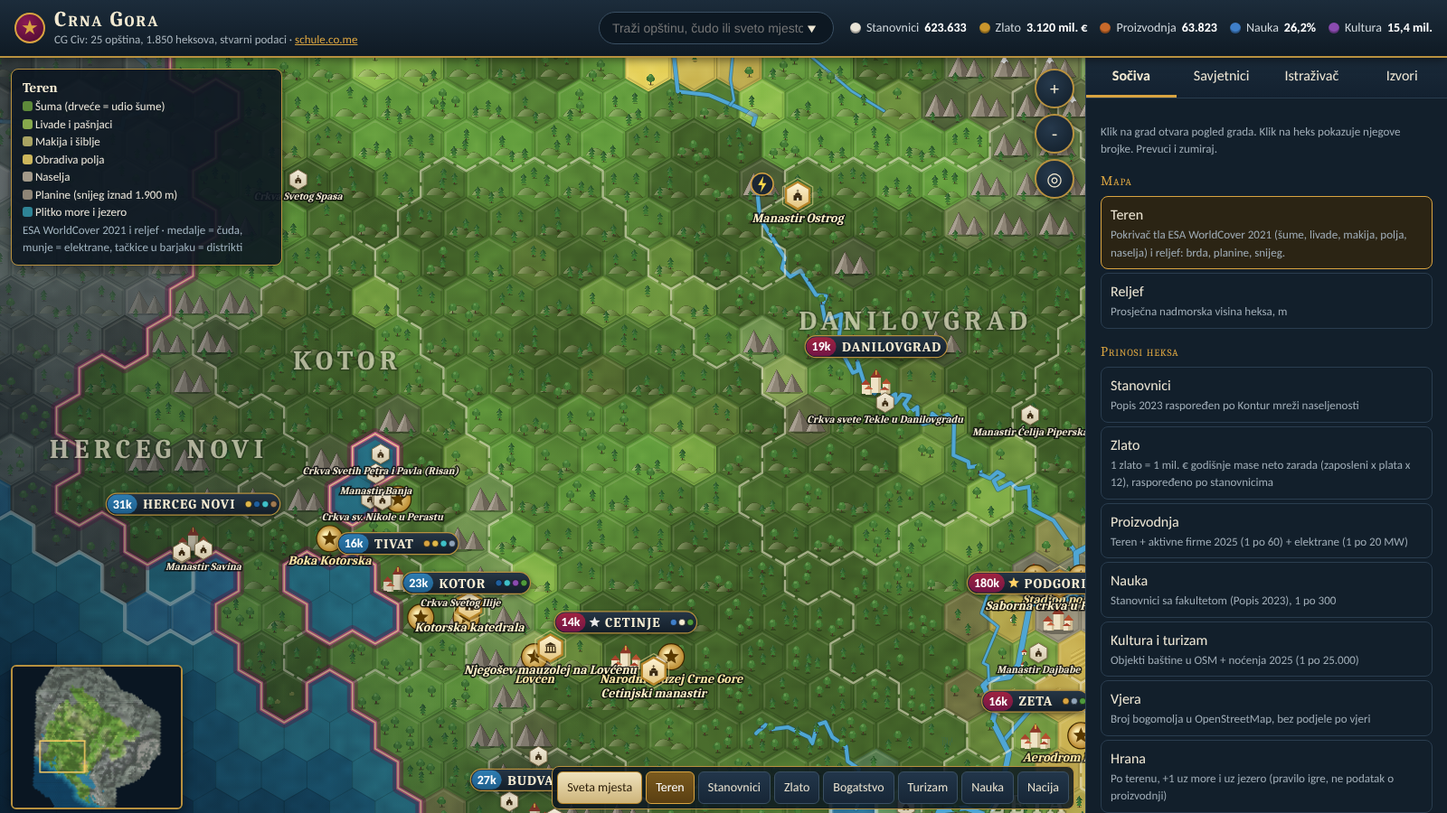
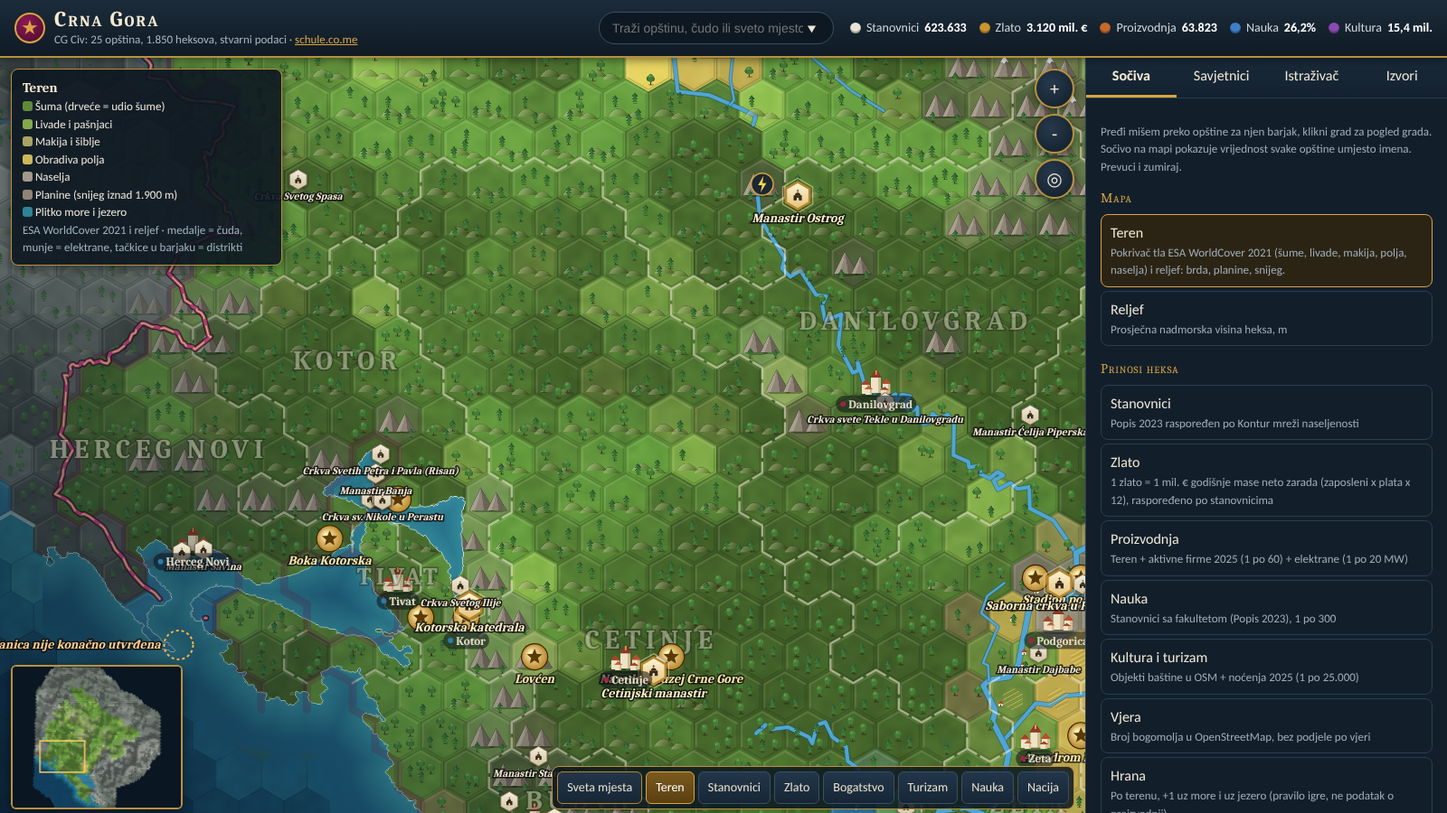
Tiši natpisi: puni barjak na prelaz mišem ili izbor; sočiva pokazuju vrijednost po opštini umjesto imena
Claude-Session: https://claude.ai/code/session_012Pb7xSYRqmrmZrka8gx1Yz

diff --git a/docs/index.html b/docs/index.html
@@ -144,7 +144,7 @@ header{padding:6px 10px;gap:4px 10px}header .sub{font-size:12px}.emb{width:28px;
       <button role="tab" data-t="explorer" aria-selected="false">Istraživač</button>
       <button role="tab" data-t="sources" aria-selected="false">Izvori</button>
     </div>
-    <div class="pane" id="p-lenses"><p class="muted">Klik na grad otvara pogled grada. Klik na heks pokazuje njegove brojke. Prevuci i zumiraj.</p><div id="lensList"></div><div id="hexInfo"></div></div>
+    <div class="pane" id="p-lenses"><p class="muted">Pređi mišem preko opštine za njen barjak, klikni grad za pogled grada. Sočivo na mapi pokazuje vrijednost svake opštine umjesto imena. Prevuci i zumiraj.</p><div id="lensList"></div><div id="hexInfo"></div></div>
     <div class="pane" id="p-advisors" hidden></div>
     <div class="pane" id="p-explorer" hidden>
       <label class="sel" for="ex">Osa X</label><select id="ex"></select>
@@ -166,11 +166,11 @@ const fmt=(v,d=0)=>v==null||isNaN(v)?'-':Number(v).toLocaleString('sr-Latn-ME',{
 const SQ3=Math.sqrt(3);
 const TERR={plains:['#c8bf78','Ravnica'],grassland:['#93b35e','Livade i polja'],hills:['#6e8c4b','Brda'],mountain:['#8b8272','Planine'],peak:['#ece9e2','Vrhovi iznad 2.100 m'],lake:['#3d7ea8','Jezero'],sea:['#1c4f74','More']};
 const YC={food:'#4f9a3c',prod:'#c8692a',gold:'#c9952c',science:'#3f7fc9',culture:'#8a4bb0',faith:'#e0d7c3'};
-let touched=false,D,V,hexes,byKey={},cityByKey={},T={},nat,s=10,tx=0,ty=0,lens='terrain',sel=null,dpr=1;
+let hov=null,touched=false,D,V,hexes,byKey={},cityByKey={},T={},nat,s=10,tx=0,ty=0,lens='terrain',sel=null,dpr=1;
 const cv=$('#map');let cx=cv.getContext('2d');const CX0=cx;
 
-let COAST=null;{const im=new Image();im.onload=()=>{COAST=im;SC=null;draw()};im.src='obala.png?v=5'}
-Promise.all(['cgciv.json','cgviz.json'].map(u=>fetch(u+'?v=5').then(r=>r.json()))).then(([d,v])=>{D=d;V=v;init()}).catch(e=>{console.error(e.stack);$('#legend').textContent='Podaci nijesu učitani: '+e.message});
+let COAST=null;{const im=new Image();im.onload=()=>{COAST=im;SC=null;draw()};im.src='obala.png?v=6'}
+Promise.all(['cgciv.json','cgviz.json'].map(u=>fetch(u+'?v=6').then(r=>r.json()))).then(([d,v])=>{D=d;V=v;init()}).catch(e=>{console.error(e.stack);$('#legend').textContent='Podaci nijesu učitani: '+e.message});
 
 function init(){
   hexes=D.hexes;nat=D.meta.nat;
@@ -445,15 +445,15 @@ function overlay(W,H){
     cx.fillStyle=c.n==='JADRANSKO MORE'?'rgba(170,215,235,.55)':kim?'rgba(225,228,232,.55)':'rgba(225,228,232,.5)';cx.fillText(c.n,x,y);if(kim)cx.restore()}try{cx.letterSpacing='0px'}catch(e){}cx.textBaseline='alphabetic'}
   {const P=V.prevlaka,x=P.p[0]*s+tx,y=P.p[1]*s+ty,z=Math.max(6,Math.min(16,s*.55));P._xy=[x,y,z+4];
     cx.setLineDash([3,3]);cx.strokeStyle='#ffb347';cx.lineWidth=2;cx.beginPath();cx.arc(x,y,z,0,7);cx.stroke();cx.setLineDash([]);
-    if(s>5){cx.font=`italic 700 ${Math.max(11,Math.min(14,s*.5))}px Caladea,serif`;cx.textAlign='right';cx.lineWidth=3;cx.strokeStyle='rgba(10,10,10,.85)';
+    if(s>11){cx.font=`italic 700 ${Math.max(11,Math.min(14,s*.5))}px Caladea,serif`;cx.textAlign='right';cx.lineWidth=3;cx.strokeStyle='rgba(10,10,10,.85)';
       const t='Prevlaka · granica nije konačno utvrđena';cx.strokeText(t,x-z-4,y+4);cx.fillStyle='#ffcf8a';cx.fillText(t,x-z-4,y+4)}}
   // 8. imena opština (srednji zum, ne preko barjaka)
   const BB=bannerLayout(W,H);
-  if(s>8.5&&s<30){cx.textAlign='center';cx.textBaseline='middle';
+  if(terr&&s>11&&s<30){cx.textAlign='center';cx.textBaseline='middle';
     for(const L of V.labels){const x=L.p[0]*s+tx,y=L.p[1]*s+ty;if(x<0||y<0||x>W||y>H)continue;
       const fs=Math.max(12,Math.min(30,s*(.7+Math.sqrt(L.a)/30)));cx.font=`700 ${fs}px Caladea,Georgia,serif`;try{cx.letterSpacing=(fs*.18)+'px'}catch(e){}
       const lw=cx.measureText(L.n.toUpperCase()).width;if(BB.some(b=>x-lw/2<b.bx+b.bw&&x+lw/2>b.bx&&y-fs/2<b.by+b.bh&&y+fs/2>b.by))continue;
-      cx.lineWidth=3;cx.strokeStyle='rgba(20,25,20,.35)';cx.strokeText(L.n.toUpperCase(),x,y);cx.fillStyle=terr?'rgba(255,248,225,.62)':'rgba(255,255,255,.7)';cx.fillText(L.n.toUpperCase(),x,y)}
+      cx.lineWidth=3;cx.strokeStyle='rgba(20,25,20,.35)';cx.strokeText(L.n.toUpperCase(),x,y);cx.fillStyle='rgba(255,248,225,.42)';cx.fillText(L.n.toUpperCase(),x,y)}
     try{cx.letterSpacing='0px'}catch(e){}cx.textBaseline='alphabetic'}
   // 9. elektrane
   for(const p of D.power){const x=SQ3*(p.q+p.r/2)*s+tx,y=-1.5*p.r*s+ty,z=Math.max(6,s*.42);if(x<-z||y<-z||x>W+z||y>H+z)continue;
@@ -462,13 +462,27 @@ function overlay(W,H){
   // 10. čuda
   for(const h of V.holy)h._xy=null;
   const placed=[],HS=new Set(V.holy.filter(h=>h.star).map(h=>h.n));const HL2=drawHoly(W,H,placed);for(const w of D.wonders){if(showHoly&&HS.has(w.name))continue;const x=SQ3*(w.q+w.r/2)*s+tx,y=-1.5*w.r*s+ty,z=Math.max(6,s*.5);if(x<-40||y<-40||x>W+40||y>H+40)continue;medal(x,y,z);
-    if(s<8.5)continue;const fs=Math.max(11,Math.min(14,s*.55));cx.font=`italic 700 ${fs}px Caladea,serif`;const lw=cx.measureText(w.name).width;
+    if(s<20)continue;const fs=Math.max(11,Math.min(14,s*.5));cx.font=`italic 700 ${fs}px Caladea,serif`;const lw=cx.measureText(w.name).width;
     if(placed.some(p=>Math.abs(p[0]-x)<(p[2]+lw)/2+6&&Math.abs(p[1]-y)<fs+4))continue;placed.push([x,y,lw]);
     cx.textAlign='center';cx.fillStyle='#ffe9a8';cx.strokeStyle='rgba(10,10,10,.8)';cx.lineWidth=3;cx.strokeText(w.name,x,y+z+fs);cx.fillText(w.name,x,y+z+fs)}
   HL2.forEach(f=>f());
-  // 11. gradski barjaci
-  for(const{c,x,y,fs,bh,popT,wp,nm,wn,ds,star,bw,bx,by}of BB){
-    const [c1,c2]=regCol(c.name);
+  // 10c. vrijednosti sočiva po opštini (podatak umjesto imena)
+  if(!terr){const vals=muniVals();cx.textAlign='center';cx.textBaseline='middle';
+    for(const L of V.labels){const v=vals[L.n];if(v==null)continue;const x=L.p[0]*s+tx,y=L.p[1]*s+ty;if(x<-60||y<-20||x>W+60||y>H+20)continue;
+      const fs=Math.max(11,Math.min(16,s*.55+4));cx.font=`700 ${fs}px Carlito,sans-serif`;const t=v.t,w=cx.measureText(t).width+14,hh=fs+8;
+      cx.fillStyle=L.n===hov||L.n===sel?'rgba(40,30,10,.92)':'rgba(10,18,26,.78)';rr(x-w/2,y-hh/2,w,hh,hh/2);cx.fill();
+      cx.strokeStyle=L.n===hov||L.n===sel?'#ffd166':'rgba(255,255,255,.35)';cx.lineWidth=1;rr(x-w/2,y-hh/2,w,hh,hh/2);cx.stroke();
+      cx.fillStyle='#fff';cx.fillText(t,x,y+1)}cx.textBaseline='alphabetic'}
+  // 10d. obris opštine pod mišem
+  if(hov&&hov!==sel){const hp=new Path2D();for(const h of hexes){if(h.muni!==hov)continue;const x=h.px*s+tx,y=h.py*s+ty;
+    for(const[a,b]of NB){const n=byKey[(h.q+a)+','+(h.r+b)];if(n&&n.muni===hov)continue;const e=edgePts(x,y,a,b,s);hp.moveTo(e[0],e[1]);hp.lineTo(e[2],e[3])}}
+    cx.strokeStyle='rgba(255,220,140,.75)';cx.lineWidth=Math.max(1.5,s*.12);cx.stroke(hp)}
+  // 11. gradski barjaci: tihi natpis, pun barjak na prelaz mišem ili izbor
+  for(const B of BB){const{c,x,y,fs,bh,bw,bx,by,nm}=B;const [c1,c2]=regCol(c.name);
+    if(!B.F){if(!terr)continue;cx.globalAlpha=.92;cx.fillStyle='rgba(10,18,26,.6)';rr(bx,by,bw,bh,bh/2);cx.fill();
+      cx.fillStyle=c1;cx.beginPath();cx.arc(bx+8,by+bh/2,3,0,7);cx.fill();
+      cx.font=`600 ${fs}px Caladea,serif`;cx.textBaseline='middle';cx.textAlign='left';cx.fillStyle='#efe6cf';cx.fillText(nm,bx+14,by+bh/2+1);cx.textBaseline='alphabetic';cx.globalAlpha=1;continue}
+    const{popT,wp,wn,ds,star}=B;
     cx.save();cx.shadowColor='rgba(0,0,0,.55)';cx.shadowBlur=6;cx.shadowOffsetY=2;
     const gb=cx.createLinearGradient(0,by,0,by+bh);gb.addColorStop(0,'#263646');gb.addColorStop(1,'#121d28');cx.fillStyle=gb;rr(bx,by,bw,bh,bh/2);cx.fill();cx.restore();
     cx.strokeStyle=c.name===sel?'#ffd166':'#b8913f';cx.lineWidth=c.name===sel?2:1.2;rr(bx,by,bw,bh,bh/2);cx.stroke();
@@ -490,16 +504,19 @@ function overlay(W,H){
   legend();mini();
 }
 function bannerLayout(W,H){
-  const out=[],R=s;const pri=c=>c.name==='Podgorica'?1e9:c.name==='Cetinje'?9e8:c.pop;
+  const out=[],R=s;const full=c=>c.name===sel||c.name===hov;const pri=c=>full(c)?2e9:c.name==='Podgorica'?1e9:c.name==='Cetinje'?9e8:c.pop;
   const cities=[...D.cities].sort((a,b)=>pri(b)-pri(a));
   for(const c of cities){const x=SQ3*(c.q+c.r/2)*s+tx,y=-1.5*c.r*s+ty;if(x<-200||y<-60||x>W+200||y>H+60)continue;
-    const fs=Math.max(10.5,Math.min(15,s*.62+5)),bh=fs+9,popT=c.pop>=1e5?fmt(c.pop/1000)+'k':fmt(c.pop/1000,c.pop<1e4?1:0)+'k';
-    cx.font=`700 ${fs-1}px Carlito,sans-serif`;const wp=cx.measureText(popT).width+12;
-    cx.font=`700 ${fs}px Caladea,serif`;try{cx.letterSpacing='1px'}catch(e){}const nm=c.name.toUpperCase(),wn=cx.measureText(nm).width+14;try{cx.letterSpacing='0px'}catch(e){}
-    const ds=c.districts.slice(0,4),wd=ds.length?ds.length*(fs*.62)+6:0,star=c.name==='Podgorica'||c.name==='Cetinje'?fs:0,bw=wp+wn+wd+star;
-    const cand=[[-bw/2,-R*.9-bh],[-bw/2,R*.85],[-bw+R,-R*.9-bh],[-R,R*.85],[-R,-R*.9-bh],[-bw+R,R*.85],[-bw/2,-R*.9-2*bh-2],[-bw/2,R*.85+bh+2]];
+    const F=full(c);let o;
+    if(F){const fs=Math.max(11.5,Math.min(15,s*.62+5)),bh=fs+9,popT=c.pop>=1e5?fmt(c.pop/1000)+'k':fmt(c.pop/1000,c.pop<1e4?1:0)+'k';
+      cx.font=`700 ${fs-1}px Carlito,sans-serif`;const wp=cx.measureText(popT).width+12;
+      cx.font=`700 ${fs}px Caladea,serif`;try{cx.letterSpacing='1px'}catch(e){}const nm=c.name.toUpperCase(),wn=cx.measureText(nm).width+14;try{cx.letterSpacing='0px'}catch(e){}
+      const ds=c.districts.slice(0,4),wd=ds.length?ds.length*(fs*.62)+6:0,star=c.name==='Podgorica'||c.name==='Cetinje'?fs:0;o={F,fs,bh,popT,wp,nm,wn,ds,star,bw:wp+wn+wd+star}}
+    else{const fs=Math.max(10,Math.min(13,s*.4+6)),bh=fs+6;cx.font=`600 ${fs}px Caladea,serif`;const nm=c.name,wn=cx.measureText(nm).width;o={F,fs,bh,nm,wn,bw:wn+18}}
+    const bw=o.bw,bh=o.bh;
+    const cand=F?[[-bw/2,-R*.9-bh],[-bw/2,R*.85],[-bw+R,-R*.9-bh],[-R,R*.85]]:[[-bw/2,R*.55],[-bw/2,-R*.6-bh],[-bw+R*.5,R*.55],[-R*.5,R*.55],[-bw/2,R*.55+bh+2]];
     let ok=null;for(const[dx,dy]of cand){const bx=x+dx,by=y+dy;if(!out.some(b=>bx<b.bx+b.bw+3&&bx+bw>b.bx-3&&by<b.by+b.bh+2&&by+bh>b.by-2)){ok=[bx,by];break}}
-    if(!ok)continue;out.push({c,x,y,fs,bh,popT,wp,nm,wn,ds,star,bw,bx:ok[0],by:ok[1]})}
+    if(!ok)continue;out.push(Object.assign(o,{c,x,y,bx:ok[0],by:ok[1]}))}
   return out;
 }
 function rr(x,y,w,h,r){r=Math.min(r,h/2,w/2);cx.beginPath();cx.moveTo(x+r,y);cx.arcTo(x+w,y,x+w,y+h,r);cx.arcTo(x+w,y+h,x,y+h,r);cx.arcTo(x,y+h,x,y,r);cx.arcTo(x,y,x+w,y,r);cx.closePath()}
@@ -529,7 +546,7 @@ function drawHoly(W,H,placed){
   const later=[];if(!showHoly)return later;const list=V.holy.filter(holyVisible);
   for(const h of [...list].reverse()){const x=h.p[0]*s+tx,y=h.p[1]*s+ty,z=h.star?Math.max(8,Math.min(15,s*.62)):Math.max(5.5,Math.min(11,s*.42));if(x<-30||y<-30||x>W+30||y>H+30)continue;
     h._xy=[x,y,z];later.push(()=>holyBadge(x,y,z,h.k,h.star))}
-  for(const h of list){if(!h._xy)continue;const[x,y,z]=h._xy;if(!(h.star&&s>5.5)&&!(s>24))continue;
+  for(const h of list){if(!h._xy)continue;const[x,y,z]=h._xy;if(!(h.star&&s>14)&&!(s>26))continue;
     const fs=h.star?Math.max(11,Math.min(14,s*.55)):Math.max(10,Math.min(12,s*.4)),t=h.n;cx.font=`italic 700 ${fs}px Caladea,serif`;const lw=cx.measureText(t).width;
     if(placed.some(p=>Math.abs(p[0]-x)<(p[2]+lw)/2+6&&Math.abs(p[1]-(y+z+fs))<fs+3))continue;placed.push([x,y+z+fs,lw]);
     later.push(()=>{cx.font=`italic 700 ${fs}px Caladea,serif`;cx.textAlign='center';cx.strokeStyle='rgba(10,10,10,.85)';cx.lineWidth=3;cx.strokeText(t,x,y+z+fs);cx.fillStyle=h.star?'#fff1c8':'#efe6d0';cx.fillText(t,x,y+z+fs)})}
@@ -549,6 +566,13 @@ function buildSearch(){
 ['#myth .mlab','#myth .core'].forEach(q=>document.querySelector(q).addEventListener('click',e=>{const h=V.holy.find(x=>x.id==='Q13424615'),t=$('#tip'),r=cv.getBoundingClientRect(),b=e.target.getBoundingClientRect();
   t.innerHTML=`<b>Lovćen: Njegoševa kapela i mauzolej</b><br>${esc(h.note)}<br><span style="color:#9fb1bd">Sveto i memorijalno mjesto, ${h.sl} jezika na Wikipediji</span>`;t.style.display='block';
   t.style.left=Math.min(b.left-r.left,r.width-270)+'px';t.style.top=(b.bottom-r.top+8)+'px'}));
+let MVC={};
+function muniVals(){if(MVC.k===lens)return MVC.v;const v={};
+  if(CATS[lens]){for(const r of D.table)v[r['Opština']]={t:r[lens.slice(4)]||'-'}}
+  else if(lens.startsWith('m:')){const c=lens.slice(2),u=c.includes('€')?' €':c.includes('%')?'%':c.includes('‰')?'‰':'';const f1=x=>Math.abs(x)<10?(Math.abs(x)<.05?0:x).toLocaleString('sr-Latn-ME',{minimumFractionDigits:1,maximumFractionDigits:1}):fmt(x);for(const r of D.table)if(r[c]!=null)v[r['Opština']]={t:f1(r[c])+u}}
+  else{const o=HL[lens];if(o&&o.v){const agg={},cnt={};for(const h of hexes){if(!h.muni)continue;const x=o.v(h);if(x==null)continue;agg[h.muni]=(agg[h.muni]||0)+x;cnt[h.muni]=(cnt[h.muni]||0)+1}
+    for(const m in agg){const val=lens==='elev'?agg[m]/cnt[m]:agg[m];v[m]={t:lens==='elev'?fmt(val)+' m':lens==='gold'?fmt(val,0)+' mil. €':val>=1e6?fmt(val/1e6,1)+' mil.':val>=1e4?fmt(val/1e3,0)+'k':fmt(val)}}}}
+  MVC={k:lens,v};return v}
 /* pregledna mapa */
 let miniImg=null,miniT=null;
 function mini(){
@@ -574,10 +598,11 @@ cv.addEventListener('pointermove',e=>{
   if(ptrs.has(e.pointerId))ptrs.set(e.pointerId,[e.offsetX,e.offsetY]);
   if(pinch&&ptrs.size===2){const [a,b]=[...ptrs.values()],d=Math.hypot(a[0]-b[0],a[1]-b[1]);zoomAt((a[0]+b[0])/2,(a[1]+b[1])/2,pinch.s*d/pinch.d/s);moved=9;return}
   if(drag&&ptrs.size===1){touched=true;tx=drag[2]+e.offsetX-drag[0];ty=drag[3]+e.offsetY-drag[1];moved+=Math.abs(e.movementX)+Math.abs(e.movementY);draw();$('#tip').style.display='none';return}
+  {const hh=pick(e.offsetX,e.offsetY),m=hh&&hh.muni||null;if(m!==hov){hov=m;draw()}}
   tip(e.offsetX,e.offsetY)});
 cv.addEventListener('pointerup',e=>{ptrs.delete(e.pointerId);if(ptrs.size<2)pinch=null;cv.style.cursor='grab';
   if(drag&&moved<6){const h=pick(e.offsetX,e.offsetY);if(h){const c=cityByKey[h.q+','+h.r];if(c)openCity(c.name);else hexInfo(h)}}drag=null});
-cv.addEventListener('pointerleave',()=>$('#tip').style.display='none');
+cv.addEventListener('pointerleave',()=>{$('#tip').style.display='none';if(hov){hov=null;draw()}});
 cv.addEventListener('wheel',e=>{e.preventDefault();zoomAt(e.offsetX,e.offsetY,Math.exp(-e.deltaY*.0015))},{passive:false});
 function zoomAt(x,y,f){touched=true;const ns=Math.max(3,Math.min(80,s*f));f=ns/s;tx=x-(x-tx)*f;ty=y-(y-ty)*f;s=ns;draw()}
 $('#zin').onclick=()=>{const r=cv.getBoundingClientRect();zoomAt(r.width/2,r.height/2,1.4)};

diff --git a/site/index.html b/site/index.html
@@ -144,7 +144,7 @@ header{padding:6px 10px;gap:4px 10px}header .sub{font-size:12px}.emb{width:28px;
       <button role="tab" data-t="explorer" aria-selected="false">Istraživač</button>
       <button role="tab" data-t="sources" aria-selected="false">Izvori</button>
     </div>
-    <div class="pane" id="p-lenses"><p class="muted">Klik na grad otvara pogled grada. Klik na heks pokazuje njegove brojke. Prevuci i zumiraj.</p><div id="lensList"></div><div id="hexInfo"></div></div>
+    <div class="pane" id="p-lenses"><p class="muted">Pređi mišem preko opštine za njen barjak, klikni grad za pogled grada. Sočivo na mapi pokazuje vrijednost svake opštine umjesto imena. Prevuci i zumiraj.</p><div id="lensList"></div><div id="hexInfo"></div></div>
     <div class="pane" id="p-advisors" hidden></div>
     <div class="pane" id="p-explorer" hidden>
       <label class="sel" for="ex">Osa X</label><select id="ex"></select>
@@ -166,11 +166,11 @@ const fmt=(v,d=0)=>v==null||isNaN(v)?'-':Number(v).toLocaleString('sr-Latn-ME',{
 const SQ3=Math.sqrt(3);
 const TERR={plains:['#c8bf78','Ravnica'],grassland:['#93b35e','Livade i polja'],hills:['#6e8c4b','Brda'],mountain:['#8b8272','Planine'],peak:['#ece9e2','Vrhovi iznad 2.100 m'],lake:['#3d7ea8','Jezero'],sea:['#1c4f74','More']};
 const YC={food:'#4f9a3c',prod:'#c8692a',gold:'#c9952c',science:'#3f7fc9',culture:'#8a4bb0',faith:'#e0d7c3'};
-let touched=false,D,V,hexes,byKey={},cityByKey={},T={},nat,s=10,tx=0,ty=0,lens='terrain',sel=null,dpr=1;
+let hov=null,touched=false,D,V,hexes,byKey={},cityByKey={},T={},nat,s=10,tx=0,ty=0,lens='terrain',sel=null,dpr=1;
 const cv=$('#map');let cx=cv.getContext('2d');const CX0=cx;
 
-let COAST=null;{const im=new Image();im.onload=()=>{COAST=im;SC=null;draw()};im.src='obala.png?v=5'}
-Promise.all(['cgciv.json','cgviz.json'].map(u=>fetch(u+'?v=5').then(r=>r.json()))).then(([d,v])=>{D=d;V=v;init()}).catch(e=>{console.error(e.stack);$('#legend').textContent='Podaci nijesu učitani: '+e.message});
+let COAST=null;{const im=new Image();im.onload=()=>{COAST=im;SC=null;draw()};im.src='obala.png?v=6'}
+Promise.all(['cgciv.json','cgviz.json'].map(u=>fetch(u+'?v=6').then(r=>r.json()))).then(([d,v])=>{D=d;V=v;init()}).catch(e=>{console.error(e.stack);$('#legend').textContent='Podaci nijesu učitani: '+e.message});
 
 function init(){
   hexes=D.hexes;nat=D.meta.nat;
@@ -445,15 +445,15 @@ function overlay(W,H){
     cx.fillStyle=c.n==='JADRANSKO MORE'?'rgba(170,215,235,.55)':kim?'rgba(225,228,232,.55)':'rgba(225,228,232,.5)';cx.fillText(c.n,x,y);if(kim)cx.restore()}try{cx.letterSpacing='0px'}catch(e){}cx.textBaseline='alphabetic'}
   {const P=V.prevlaka,x=P.p[0]*s+tx,y=P.p[1]*s+ty,z=Math.max(6,Math.min(16,s*.55));P._xy=[x,y,z+4];
     cx.setLineDash([3,3]);cx.strokeStyle='#ffb347';cx.lineWidth=2;cx.beginPath();cx.arc(x,y,z,0,7);cx.stroke();cx.setLineDash([]);
-    if(s>5){cx.font=`italic 700 ${Math.max(11,Math.min(14,s*.5))}px Caladea,serif`;cx.textAlign='right';cx.lineWidth=3;cx.strokeStyle='rgba(10,10,10,.85)';
+    if(s>11){cx.font=`italic 700 ${Math.max(11,Math.min(14,s*.5))}px Caladea,serif`;cx.textAlign='right';cx.lineWidth=3;cx.strokeStyle='rgba(10,10,10,.85)';
       const t='Prevlaka · granica nije konačno utvrđena';cx.strokeText(t,x-z-4,y+4);cx.fillStyle='#ffcf8a';cx.fillText(t,x-z-4,y+4)}}
   // 8. imena opština (srednji zum, ne preko barjaka)
   const BB=bannerLayout(W,H);
-  if(s>8.5&&s<30){cx.textAlign='center';cx.textBaseline='middle';
+  if(terr&&s>11&&s<30){cx.textAlign='center';cx.textBaseline='middle';
     for(const L of V.labels){const x=L.p[0]*s+tx,y=L.p[1]*s+ty;if(x<0||y<0||x>W||y>H)continue;
       const fs=Math.max(12,Math.min(30,s*(.7+Math.sqrt(L.a)/30)));cx.font=`700 ${fs}px Caladea,Georgia,serif`;try{cx.letterSpacing=(fs*.18)+'px'}catch(e){}
       const lw=cx.measureText(L.n.toUpperCase()).width;if(BB.some(b=>x-lw/2<b.bx+b.bw&&x+lw/2>b.bx&&y-fs/2<b.by+b.bh&&y+fs/2>b.by))continue;
-      cx.lineWidth=3;cx.strokeStyle='rgba(20,25,20,.35)';cx.strokeText(L.n.toUpperCase(),x,y);cx.fillStyle=terr?'rgba(255,248,225,.62)':'rgba(255,255,255,.7)';cx.fillText(L.n.toUpperCase(),x,y)}
+      cx.lineWidth=3;cx.strokeStyle='rgba(20,25,20,.35)';cx.strokeText(L.n.toUpperCase(),x,y);cx.fillStyle='rgba(255,248,225,.42)';cx.fillText(L.n.toUpperCase(),x,y)}
     try{cx.letterSpacing='0px'}catch(e){}cx.textBaseline='alphabetic'}
   // 9. elektrane
   for(const p of D.power){const x=SQ3*(p.q+p.r/2)*s+tx,y=-1.5*p.r*s+ty,z=Math.max(6,s*.42);if(x<-z||y<-z||x>W+z||y>H+z)continue;
@@ -462,13 +462,27 @@ function overlay(W,H){
   // 10. čuda
   for(const h of V.holy)h._xy=null;
   const placed=[],HS=new Set(V.holy.filter(h=>h.star).map(h=>h.n));const HL2=drawHoly(W,H,placed);for(const w of D.wonders){if(showHoly&&HS.has(w.name))continue;const x=SQ3*(w.q+w.r/2)*s+tx,y=-1.5*w.r*s+ty,z=Math.max(6,s*.5);if(x<-40||y<-40||x>W+40||y>H+40)continue;medal(x,y,z);
-    if(s<8.5)continue;const fs=Math.max(11,Math.min(14,s*.55));cx.font=`italic 700 ${fs}px Caladea,serif`;const lw=cx.measureText(w.name).width;
+    if(s<20)continue;const fs=Math.max(11,Math.min(14,s*.5));cx.font=`italic 700 ${fs}px Caladea,serif`;const lw=cx.measureText(w.name).width;
     if(placed.some(p=>Math.abs(p[0]-x)<(p[2]+lw)/2+6&&Math.abs(p[1]-y)<fs+4))continue;placed.push([x,y,lw]);
     cx.textAlign='center';cx.fillStyle='#ffe9a8';cx.strokeStyle='rgba(10,10,10,.8)';cx.lineWidth=3;cx.strokeText(w.name,x,y+z+fs);cx.fillText(w.name,x,y+z+fs)}
   HL2.forEach(f=>f());
-  // 11. gradski barjaci
-  for(const{c,x,y,fs,bh,popT,wp,nm,wn,ds,star,bw,bx,by}of BB){
-    const [c1,c2]=regCol(c.name);
+  // 10c. vrijednosti sočiva po opštini (podatak umjesto imena)
+  if(!terr){const vals=muniVals();cx.textAlign='center';cx.textBaseline='middle';
+    for(const L of V.labels){const v=vals[L.n];if(v==null)continue;const x=L.p[0]*s+tx,y=L.p[1]*s+ty;if(x<-60||y<-20||x>W+60||y>H+20)continue;
+      const fs=Math.max(11,Math.min(16,s*.55+4));cx.font=`700 ${fs}px Carlito,sans-serif`;const t=v.t,w=cx.measureText(t).width+14,hh=fs+8;
+      cx.fillStyle=L.n===hov||L.n===sel?'rgba(40,30,10,.92)':'rgba(10,18,26,.78)';rr(x-w/2,y-hh/2,w,hh,hh/2);cx.fill();
+      cx.strokeStyle=L.n===hov||L.n===sel?'#ffd166':'rgba(255,255,255,.35)';cx.lineWidth=1;rr(x-w/2,y-hh/2,w,hh,hh/2);cx.stroke();
+      cx.fillStyle='#fff';cx.fillText(t,x,y+1)}cx.textBaseline='alphabetic'}
+  // 10d. obris opštine pod mišem
+  if(hov&&hov!==sel){const hp=new Path2D();for(const h of hexes){if(h.muni!==hov)continue;const x=h.px*s+tx,y=h.py*s+ty;
+    for(const[a,b]of NB){const n=byKey[(h.q+a)+','+(h.r+b)];if(n&&n.muni===hov)continue;const e=edgePts(x,y,a,b,s);hp.moveTo(e[0],e[1]);hp.lineTo(e[2],e[3])}}
+    cx.strokeStyle='rgba(255,220,140,.75)';cx.lineWidth=Math.max(1.5,s*.12);cx.stroke(hp)}
+  // 11. gradski barjaci: tihi natpis, pun barjak na prelaz mišem ili izbor
+  for(const B of BB){const{c,x,y,fs,bh,bw,bx,by,nm}=B;const [c1,c2]=regCol(c.name);
+    if(!B.F){if(!terr)continue;cx.globalAlpha=.92;cx.fillStyle='rgba(10,18,26,.6)';rr(bx,by,bw,bh,bh/2);cx.fill();
+      cx.fillStyle=c1;cx.beginPath();cx.arc(bx+8,by+bh/2,3,0,7);cx.fill();
+      cx.font=`600 ${fs}px Caladea,serif`;cx.textBaseline='middle';cx.textAlign='left';cx.fillStyle='#efe6cf';cx.fillText(nm,bx+14,by+bh/2+1);cx.textBaseline='alphabetic';cx.globalAlpha=1;continue}
+    const{popT,wp,wn,ds,star}=B;
     cx.save();cx.shadowColor='rgba(0,0,0,.55)';cx.shadowBlur=6;cx.shadowOffsetY=2;
     const gb=cx.createLinearGradient(0,by,0,by+bh);gb.addColorStop(0,'#263646');gb.addColorStop(1,'#121d28');cx.fillStyle=gb;rr(bx,by,bw,bh,bh/2);cx.fill();cx.restore();
     cx.strokeStyle=c.name===sel?'#ffd166':'#b8913f';cx.lineWidth=c.name===sel?2:1.2;rr(bx,by,bw,bh,bh/2);cx.stroke();
@@ -490,16 +504,19 @@ function overlay(W,H){
   legend();mini();
 }
 function bannerLayout(W,H){
-  const out=[],R=s;const pri=c=>c.name==='Podgorica'?1e9:c.name==='Cetinje'?9e8:c.pop;
+  const out=[],R=s;const full=c=>c.name===sel||c.name===hov;const pri=c=>full(c)?2e9:c.name==='Podgorica'?1e9:c.name==='Cetinje'?9e8:c.pop;
   const cities=[...D.cities].sort((a,b)=>pri(b)-pri(a));
   for(const c of cities){const x=SQ3*(c.q+c.r/2)*s+tx,y=-1.5*c.r*s+ty;if(x<-200||y<-60||x>W+200||y>H+60)continue;
-    const fs=Math.max(10.5,Math.min(15,s*.62+5)),bh=fs+9,popT=c.pop>=1e5?fmt(c.pop/1000)+'k':fmt(c.pop/1000,c.pop<1e4?1:0)+'k';
-    cx.font=`700 ${fs-1}px Carlito,sans-serif`;const wp=cx.measureText(popT).width+12;
-    cx.font=`700 ${fs}px Caladea,serif`;try{cx.letterSpacing='1px'}catch(e){}const nm=c.name.toUpperCase(),wn=cx.measureText(nm).width+14;try{cx.letterSpacing='0px'}catch(e){}
-    const ds=c.districts.slice(0,4),wd=ds.length?ds.length*(fs*.62)+6:0,star=c.name==='Podgorica'||c.name==='Cetinje'?fs:0,bw=wp+wn+wd+star;
-    const cand=[[-bw/2,-R*.9-bh],[-bw/2,R*.85],[-bw+R,-R*.9-bh],[-R,R*.85],[-R,-R*.9-bh],[-bw+R,R*.85],[-bw/2,-R*.9-2*bh-2],[-bw/2,R*.85+bh+2]];
+    const F=full(c);let o;
+    if(F){const fs=Math.max(11.5,Math.min(15,s*.62+5)),bh=fs+9,popT=c.pop>=1e5?fmt(c.pop/1000)+'k':fmt(c.pop/1000,c.pop<1e4?1:0)+'k';
+      cx.font=`700 ${fs-1}px Carlito,sans-serif`;const wp=cx.measureText(popT).width+12;
+      cx.font=`700 ${fs}px Caladea,serif`;try{cx.letterSpacing='1px'}catch(e){}const nm=c.name.toUpperCase(),wn=cx.measureText(nm).width+14;try{cx.letterSpacing='0px'}catch(e){}
+      const ds=c.districts.slice(0,4),wd=ds.length?ds.length*(fs*.62)+6:0,star=c.name==='Podgorica'||c.name==='Cetinje'?fs:0;o={F,fs,bh,popT,wp,nm,wn,ds,star,bw:wp+wn+wd+star}}
+    else{const fs=Math.max(10,Math.min(13,s*.4+6)),bh=fs+6;cx.font=`600 ${fs}px Caladea,serif`;const nm=c.name,wn=cx.measureText(nm).width;o={F,fs,bh,nm,wn,bw:wn+18}}
+    const bw=o.bw,bh=o.bh;
+    const cand=F?[[-bw/2,-R*.9-bh],[-bw/2,R*.85],[-bw+R,-R*.9-bh],[-R,R*.85]]:[[-bw/2,R*.55],[-bw/2,-R*.6-bh],[-bw+R*.5,R*.55],[-R*.5,R*.55],[-bw/2,R*.55+bh+2]];
     let ok=null;for(const[dx,dy]of cand){const bx=x+dx,by=y+dy;if(!out.some(b=>bx<b.bx+b.bw+3&&bx+bw>b.bx-3&&by<b.by+b.bh+2&&by+bh>b.by-2)){ok=[bx,by];break}}
-    if(!ok)continue;out.push({c,x,y,fs,bh,popT,wp,nm,wn,ds,star,bw,bx:ok[0],by:ok[1]})}
+    if(!ok)continue;out.push(Object.assign(o,{c,x,y,bx:ok[0],by:ok[1]}))}
   return out;
 }
 function rr(x,y,w,h,r){r=Math.min(r,h/2,w/2);cx.beginPath();cx.moveTo(x+r,y);cx.arcTo(x+w,y,x+w,y+h,r);cx.arcTo(x+w,y+h,x,y+h,r);cx.arcTo(x,y+h,x,y,r);cx.arcTo(x,y,x+w,y,r);cx.closePath()}
@@ -529,7 +546,7 @@ function drawHoly(W,H,placed){
   const later=[];if(!showHoly)return later;const list=V.holy.filter(holyVisible);
   for(const h of [...list].reverse()){const x=h.p[0]*s+tx,y=h.p[1]*s+ty,z=h.star?Math.max(8,Math.min(15,s*.62)):Math.max(5.5,Math.min(11,s*.42));if(x<-30||y<-30||x>W+30||y>H+30)continue;
     h._xy=[x,y,z];later.push(()=>holyBadge(x,y,z,h.k,h.star))}
-  for(const h of list){if(!h._xy)continue;const[x,y,z]=h._xy;if(!(h.star&&s>5.5)&&!(s>24))continue;
+  for(const h of list){if(!h._xy)continue;const[x,y,z]=h._xy;if(!(h.star&&s>14)&&!(s>26))continue;
     const fs=h.star?Math.max(11,Math.min(14,s*.55)):Math.max(10,Math.min(12,s*.4)),t=h.n;cx.font=`italic 700 ${fs}px Caladea,serif`;const lw=cx.measureText(t).width;
     if(placed.some(p=>Math.abs(p[0]-x)<(p[2]+lw)/2+6&&Math.abs(p[1]-(y+z+fs))<fs+3))continue;placed.push([x,y+z+fs,lw]);
     later.push(()=>{cx.font=`italic 700 ${fs}px Caladea,serif`;cx.textAlign='center';cx.strokeStyle='rgba(10,10,10,.85)';cx.lineWidth=3;cx.strokeText(t,x,y+z+fs);cx.fillStyle=h.star?'#fff1c8':'#efe6d0';cx.fillText(t,x,y+z+fs)})}
@@ -549,6 +566,13 @@ function buildSearch(){
 ['#myth .mlab','#myth .core'].forEach(q=>document.querySelector(q).addEventListener('click',e=>{const h=V.holy.find(x=>x.id==='Q13424615'),t=$('#tip'),r=cv.getBoundingClientRect(),b=e.target.getBoundingClientRect();
   t.innerHTML=`<b>Lovćen: Njegoševa kapela i mauzolej</b><br>${esc(h.note)}<br><span style="color:#9fb1bd">Sveto i memorijalno mjesto, ${h.sl} jezika na Wikipediji</span>`;t.style.display='block';
   t.style.left=Math.min(b.left-r.left,r.width-270)+'px';t.style.top=(b.bottom-r.top+8)+'px'}));
+let MVC={};
+function muniVals(){if(MVC.k===lens)return MVC.v;const v={};
+  if(CATS[lens]){for(const r of D.table)v[r['Opština']]={t:r[lens.slice(4)]||'-'}}
+  else if(lens.startsWith('m:')){const c=lens.slice(2),u=c.includes('€')?' €':c.includes('%')?'%':c.includes('‰')?'‰':'';const f1=x=>Math.abs(x)<10?(Math.abs(x)<.05?0:x).toLocaleString('sr-Latn-ME',{minimumFractionDigits:1,maximumFractionDigits:1}):fmt(x);for(const r of D.table)if(r[c]!=null)v[r['Opština']]={t:f1(r[c])+u}}
+  else{const o=HL[lens];if(o&&o.v){const agg={},cnt={};for(const h of hexes){if(!h.muni)continue;const x=o.v(h);if(x==null)continue;agg[h.muni]=(agg[h.muni]||0)+x;cnt[h.muni]=(cnt[h.muni]||0)+1}
+    for(const m in agg){const val=lens==='elev'?agg[m]/cnt[m]:agg[m];v[m]={t:lens==='elev'?fmt(val)+' m':lens==='gold'?fmt(val,0)+' mil. €':val>=1e6?fmt(val/1e6,1)+' mil.':val>=1e4?fmt(val/1e3,0)+'k':fmt(val)}}}}
+  MVC={k:lens,v};return v}
 /* pregledna mapa */
 let miniImg=null,miniT=null;
 function mini(){
@@ -574,10 +598,11 @@ cv.addEventListener('pointermove',e=>{
   if(ptrs.has(e.pointerId))ptrs.set(e.pointerId,[e.offsetX,e.offsetY]);
   if(pinch&&ptrs.size===2){const [a,b]=[...ptrs.values()],d=Math.hypot(a[0]-b[0],a[1]-b[1]);zoomAt((a[0]+b[0])/2,(a[1]+b[1])/2,pinch.s*d/pinch.d/s);moved=9;return}
   if(drag&&ptrs.size===1){touched=true;tx=drag[2]+e.offsetX-drag[0];ty=drag[3]+e.offsetY-drag[1];moved+=Math.abs(e.movementX)+Math.abs(e.movementY);draw();$('#tip').style.display='none';return}
+  {const hh=pick(e.offsetX,e.offsetY),m=hh&&hh.muni||null;if(m!==hov){hov=m;draw()}}
   tip(e.offsetX,e.offsetY)});
 cv.addEventListener('pointerup',e=>{ptrs.delete(e.pointerId);if(ptrs.size<2)pinch=null;cv.style.cursor='grab';
   if(drag&&moved<6){const h=pick(e.offsetX,e.offsetY);if(h){const c=cityByKey[h.q+','+h.r];if(c)openCity(c.name);else hexInfo(h)}}drag=null});
-cv.addEventListener('pointerleave',()=>$('#tip').style.display='none');
+cv.addEventListener('pointerleave',()=>{$('#tip').style.display='none';if(hov){hov=null;draw()}});
 cv.addEventListener('wheel',e=>{e.preventDefault();zoomAt(e.offsetX,e.offsetY,Math.exp(-e.deltaY*.0015))},{passive:false});
 function zoomAt(x,y,f){touched=true;const ns=Math.max(3,Math.min(80,s*f));f=ns/s;tx=x-(x-tx)*f;ty=y-(y-ty)*f;s=ns;draw()}
 $('#zin').onclick=()=>{const r=cv.getBoundingClientRect();zoomAt(r.width/2,r.height/2,1.4)};
